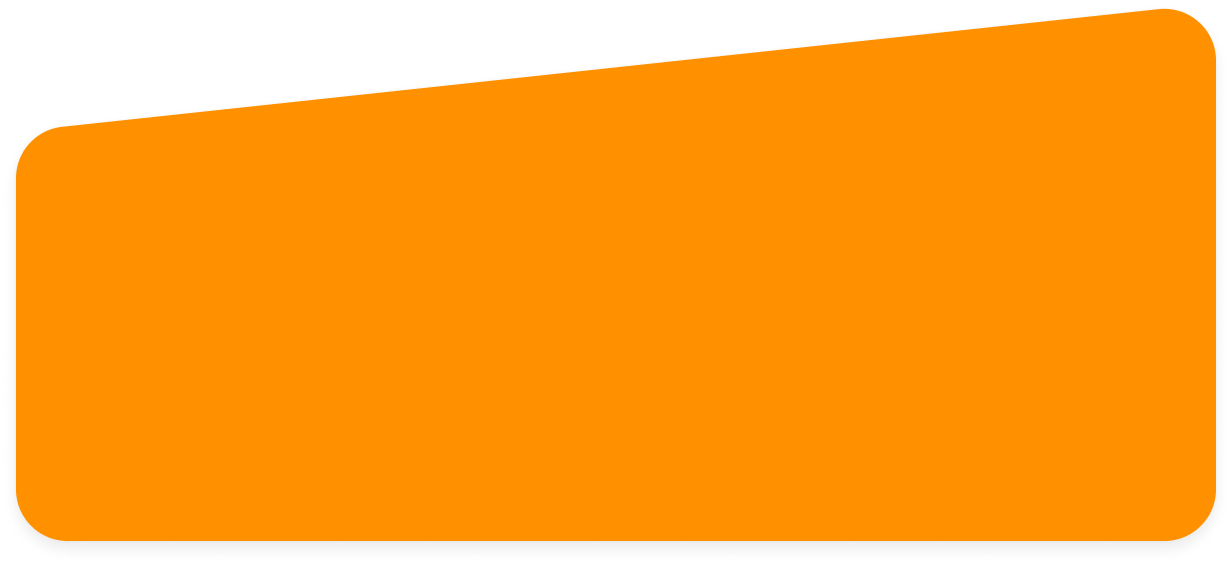
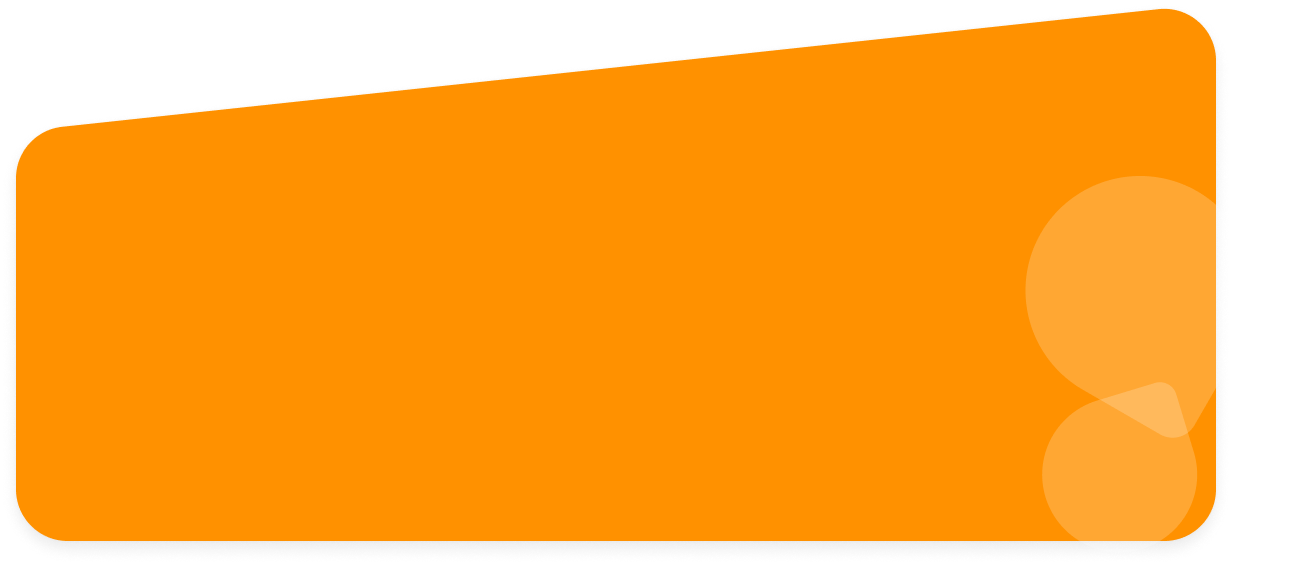
Discover section

diff --git a/src/components/Discover/Discover.scss b/src/components/Discover/Discover.scss
@@ -3,7 +3,7 @@
 .discoverSection{
     display: none;
 
-    @media screen and (min-width: 900px) {
+    @media screen and (min-width: 1024px) {
         display: grid;
         place-items: center;
         width: 100vw;
@@ -18,7 +18,7 @@
         align-items: center;
         height: 70%;
         background: url('../../assets/images/DiscoverBackground.png') no-repeat;
-        background-size: contain;
+        background-size: 100% 87%;
         background-position: top;
         width: 90%;
         margin: 2rem auto;
@@ -37,11 +37,17 @@
                 .whiteText{
                     color: $white;
                 }
+
+                @media screen and (min-width: 1280px) {
+                    font-size: $fiftySeven;
+                    line-height: 55px;
+                }
             }
     
             .discoverDescription{
                 color: $black;
                 font-size: $eighteen;
+                font-weight: 500;
                 text-align: left;
                 line-height: 28px;
             }

diff --git a/src/components/Hero/Hero.jsx b/src/components/Hero/Hero.jsx
@@ -29,7 +29,7 @@ export default function Hero() {
             Unlock a world of possibilities with our app.
           </p>
           <div className="heroSubtitle_mobile">
-            
+          We are focused on making the fun ecosystem easy to navigate while bringing our audience the much-needed interactive space for networking. 
           </div>
           {/* Download Buttons */}
           <DownloadButtons/>
